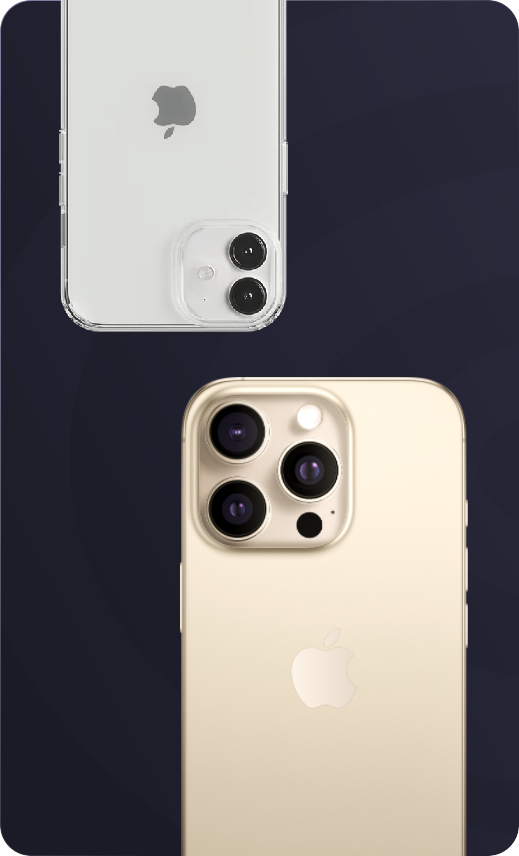
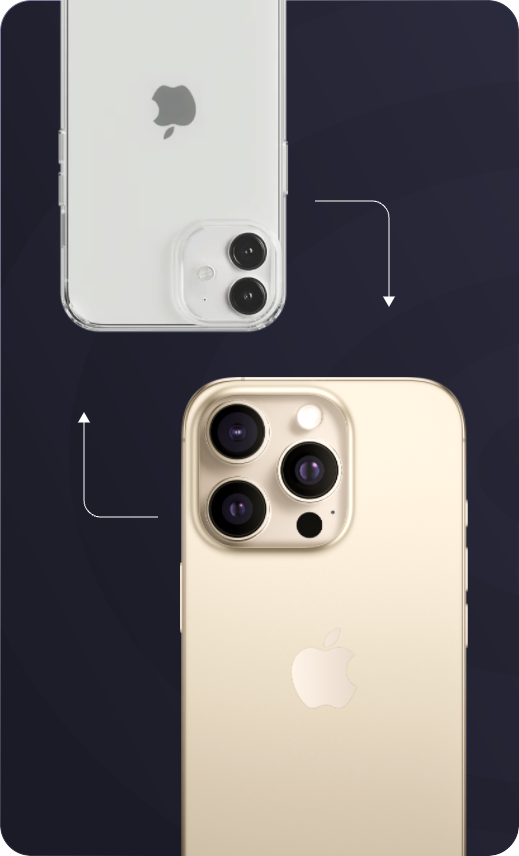
edits

diff --git a/styles/style.css b/styles/style.css
@@ -464,12 +464,25 @@ header {
   margin-left: 62px;
   margin-bottom: 57px;
 }
+.about_text img {
+  position: absolute;
+}
+.about_text2 img,
+.about_text4 img {
+  top: -25px;
+  left: -50px;
+}
+
+.about_text3 img {
+  top: -70px;
+  right: 8px;
+}
 .about_text3 {
-  max-width: 457px;
+  max-width: 460px;
   margin-bottom: 57px;
 }
 .about_text4 {
-  margin-left: 62px;
+  margin-left: 134px;
 }
 
 .about,
@@ -920,8 +933,8 @@ footer {
 .circle_bg_w::before {
   content: "";
   position: absolute;
-  inset: 0; 
-  background: rgba(0, 0, 0, 0.5); 
+  inset: 0;
+  background: rgba(0, 0, 0, 0.5);
   z-index: 1;
 }
 
@@ -931,6 +944,10 @@ footer {
 .circle_bg_w > * {
   position: relative;
   z-index: 2;
+}
+
+.mob_img {
+  display: none !important;
 }
 
 @media only screen and (max-width: 1150px) {
@@ -983,6 +1000,8 @@ footer {
     font-weight: 400;
     line-height: 130.5%;
     letter-spacing: -2%;
+    max-width: 278.36px;
+    margin: 0 auto;
   }
 
   .header_title p {
@@ -990,11 +1009,12 @@ footer {
     font-weight: 600;
     line-height: 25.9px;
     letter-spacing: -1%;
-    padding-left: 20px;
-    padding-right: 20px;
+    margin: 0 auto;
+    max-width: 268px;
+    margin-top: 14px;
   }
   .header_actions {
-    margin-top: 168px;
+    margin-top: 200px;
     display: flex;
     flex-direction: column-reverse;
   }
@@ -1205,6 +1225,8 @@ footer {
   .about_content {
     padding: 0;
     margin-top: 24px;
+    padding-left: 20px;
+    padding-right: 20px;
   }
   .about_text p {
     font-size: 14px;
@@ -1225,6 +1247,45 @@ footer {
   .about_text4 {
     margin-left: 0;
     margin-bottom: 0;
+  }
+  .about_text {
+    margin-bottom: 36px;
+  }
+  .about_text2 img,
+  .top_line_ic {
+    height: 57px;
+    top: auto;
+    bottom: -20px;
+  }
+
+  .about_text3 img {
+    position: absolute;
+    height: 57px;
+    bottom: -30px;
+  }
+
+  .top_line_ic,
+  .about_text3 img {
+    left: -20px !important;
+
+    bottom: -20px !important;
+    top: auto;
+  }
+  .top_line_ic {
+    display: flex !important;
+  }
+  .about_text4 img {
+    display: none;
+  }
+  .des_img {
+    display: none;
+  }
+  .mob_img {
+    display: flex !important;
+  }
+  .about_text2 .mob_img {
+    right: 0;
+    left: auto;height: 32.35px;
   }
   .about_mob {
     display: flex;
@@ -1473,7 +1534,17 @@ footer {
   }
   header {
     background: url(../assets/images/header-bg-mob.png);
-    background-size: cover;
+    background-repeat: no-repeat;
     background-position: bottom;
+    background-size: cover;
+  }
+}
+
+@media only screen and (max-width: 330px) {
+  .header_actions {
+    margin-top: 168px;
+  }
+  header {
+    background-size: contain;
   }
 }

diff --git a/index.html b/index.html
@@ -325,20 +325,40 @@
                 135+ магазинов по всей России — от Москвы до Владивостока.
               </p>
               <img src="./assets/icons/apple.svg" alt="" />
+              <img
+                class="top_line_ic"
+                src="./assets/icons/text-line.svg"
+                alt=""
+              />
             </div>
             <div class="about_text about_text2">
+              <img class="des_img" src="./assets/icons/text-line.svg" alt="" />
+              <img
+                class="mob_img"
+                src="./assets/icons/text-line-l.svg"
+                alt=""
+              />
               <p>
                 Мы сделали покупку топовой техники <b>доступной и выгодной</b>,
                 сохранив премиальное качество и высокий уровень сервиса.
               </p>
             </div>
             <div class="about_text about_text3">
+              <img
+                class="des_img"
+                src="./assets/icons/text-line-l.svg"
+                alt=""
+              />
+              <img class="mob_img" src="./assets/icons/text-line.svg" alt="" />
+
               <p>
                 Нам доверяют <b>тысячи клиентов</b> каждую неделю — за честные
                 цены, внимание к деталям и реальную экономию.
               </p>
             </div>
             <div class="about_text about_text4">
+              <img src="./assets/icons/text-line.svg" alt="" />
+
               <p>
                 <b
                   >«Наша миссия — дать людям возможность покупать технику по
